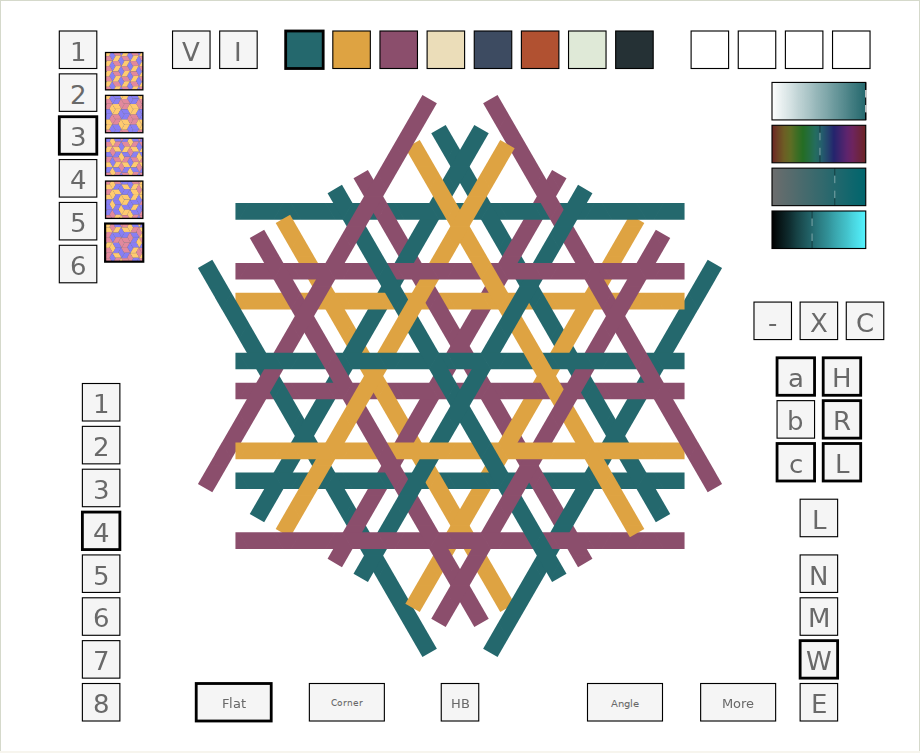
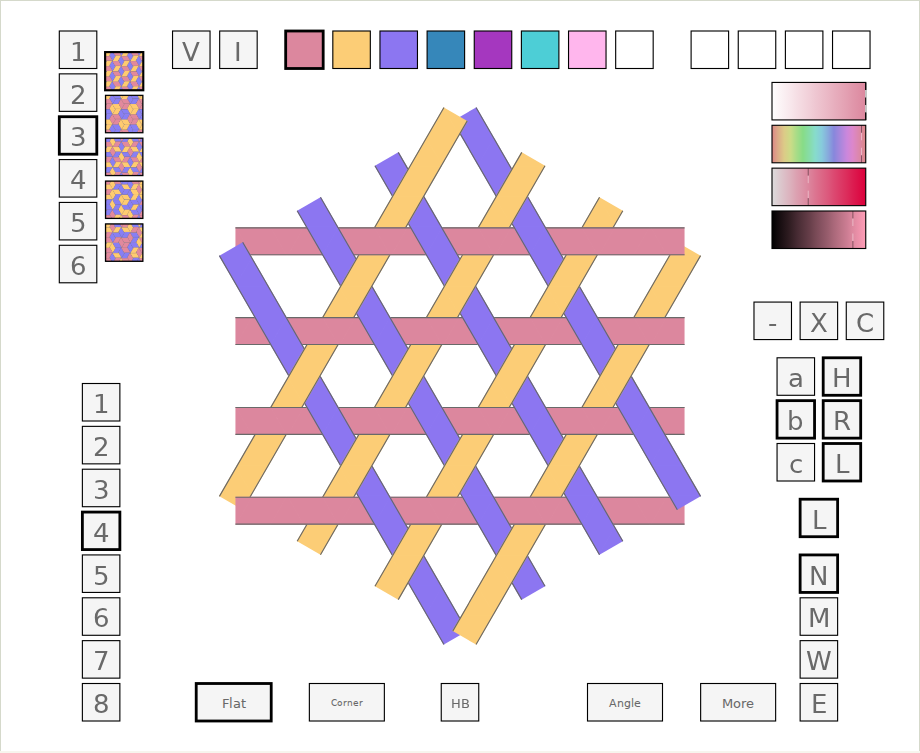
docs: show an open hexweave in the original colors [skip ci]

diff --git a/README.md b/README.md
@@ -18,8 +18,8 @@ Screenshots below come from the built editor. Click an image for full size.
 ![Original pink, gold and violet weave, with six strips per direction and the editor controls visible](docs/images/planar-original.png)
 *The [original MadWeave design](https://fiberwoman.com/madweave/madweave.svg), reopened and rendered by the current editor.*
 
-![Open planar weave with grouped colors, wider spacing and one hexweave class hidden](docs/images/planar-open.png)
-*A different formula, wider spacing, and a hidden b class reveal the layered structure.*
+![Open hexweave in the original pink, gold and violet, with one color per direction and visible strip edges](docs/images/planar-open.png)
+*The b hexweave class in the original colors. Opaque strips and edge lines make the over-and-under crossings clear.*
 
 ![Corner diagram with the original palette and control positions, a 480 degree angle, bottom view buttons, and strip-edge lines](docs/images/corner-construction.png)
 *Size 2 at 480° has 24 strips with individual ends. The original controls and palette remain; L draws lines at the strip edges.*

diff --git a/docs/SCREENSHOTS.md b/docs/SCREENSHOTS.md
@@ -36,7 +36,7 @@ construction/warning views; pointer hover text is dismissed before capture.
 | Image | Reproducible state |
 | --- | --- |
 | `planar-original.png` | Original SVG reopened in the current editor: size 2 (six strips per direction), direction formula, three colors, medium spacing; original pink/gold/violet palette |
-| `planar-open.png` | Size 4, teal/gold/plum palette, class + group formula, wide spacing, b class hidden |
+| `planar-open.png` | Size 4, original pink/gold/violet palette, direction formula, three opaque colors, narrow spacing, only b class visible, L enabled |
 | `corner-construction.png` | Displaced sixfold phase, size 2, 480°, 24 strips with individual ends, direction + class formula, original palette and control positions, L enabled |
 | `corner-inspection.png` | Same construction, first crossing's next local position, hidden outlines and seam partners enabled |
 | `corner-translucent-warning.png` | Displaced sixfold phase, size 2, 420°, 21 strips with individual ends, direction formula; blue/coral/violet at 0.65/0.55/0.70 opacity, deliberate seam warnings |
